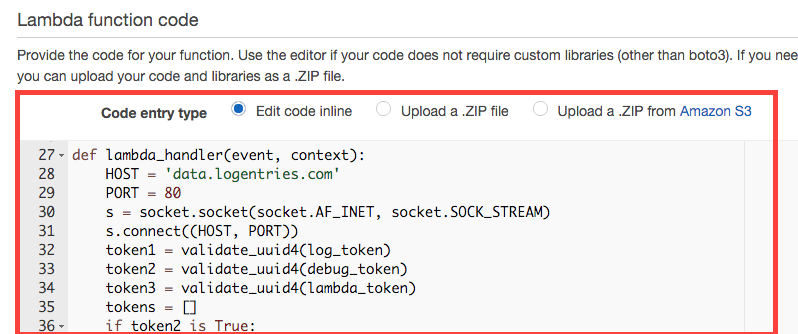
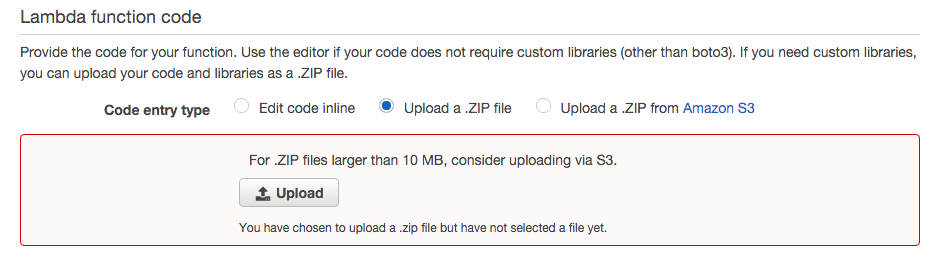
SSL Support
Add SSL support, Logentries certs, update readme

Changed region(s): [[0.0, 0.124, 1.0, 1.0], [0.0, 0.031, 0.2707, 0.093]]

diff --git a/le_lambda.py b/le_lambda.py
@@ -1,8 +1,10 @@
 import boto3
 import socket
+import ssl
 import datetime
 import re
 import csv
+
 print('Loading function')
 
 s3 = boto3.client('s3')
@@ -25,18 +27,19 @@ username = "YOUR_USERNAME"
 
 def lambda_handler(event, context):
     host = 'data.logentries.com'
-    port = 80
-    s = socket.socket(socket.AF_INET, socket.SOCK_STREAM)
+    port = 20000
+    s_ = socket.socket(socket.AF_INET, socket.SOCK_STREAM)
+    s = ssl.wrap_socket(s_, ca_certs='le_certs.pem', cert_reqs=ssl.CERT_REQUIRED)
     s.connect((host, port))
     tokens = []
-    if validate_uuid4(debug_token) is True:
+    if validate_uuid(debug_token) is True:
         tokens.append(debug_token)
-    if validate_uuid4(lambda_token) is True:
+    if validate_uuid(lambda_token) is True:
         tokens.append(lambda_token)
     else:
         pass
 
-    if validate_uuid4(log_token) is False:
+    if validate_uuid(log_token) is False:
         for token in tokens:
             s.sendall('%s %s\n' % (token, "{}: log token not present for username={}"
                                    .format(str(datetime.datetime.utcnow()), username)))
@@ -50,11 +53,11 @@ def lambda_handler(event, context):
             body = response['Body']
             data = body.read()
             for token in tokens:
-                s.sendall('%s %s\n' % (token, "username={} downloaded file={} from bucket={}."
+                s.sendall('%s %s\n' % (token, "username='{}' downloaded file='{}' from bucket='{}'."
                                        .format(username, key, bucket)))
             lines = data.split("\n")
             for token in tokens:
-                s.sendall('%s %s\n' % (token, "Beginning to send lines={} start_time={}."
+                s.sendall('%s %s\n' % (token, "Beginning to send lines='{}' start_time='{}'."
                                        .format(str(len(lines)), str(datetime.datetime.utcnow()))))
             if validate_elb_log(str(key)) is True:
                 # timestamp elb client:port backend:port request_processing_time backend_processing_time
@@ -80,21 +83,21 @@ def lambda_handler(event, context):
                 for line in lines:
                     s.sendall('%s %s\n' % (log_token, line))
             for token in tokens:
-                s.sendall('%s %s\n' % (token, "username={} finished sending log data end_time={}"
+                s.sendall('%s %s\n' % (token, "username='{}' finished sending log data end_time='{}'"
                                        .format(username, str(datetime.datetime.utcnow()))))
         except Exception as e:
             for token in tokens:
                 print e
-                s.sendall('%s %s\n' % (token, 'Error getting username={} file={} from bucket={}. Make sure '
-                                              'they exist and your bucket is in the same region as this function.'
+                s.sendall('%s %s\n' % (token, "Error getting username='{}' file='{}' from bucket='{}'. Make sure "
+                                              "they exist and your bucket is in the same region as this function."
                                        .format(username, key, bucket)))
         finally:
             s.close()
 
 
-def validate_uuid4(uuid):
+def validate_uuid(uuid_string):
     regex = re.compile('^[0-9a-f]{8}-[0-9a-f]{4}-[1-5][0-9a-f]{3}-[89ab][0-9a-f]{3}-[0-9a-f]{12}$', re.I)
-    match = regex.match(uuid)
+    match = regex.match(uuid_string)
     return bool(match)
 
 

diff --git a/README.md b/README.md
@@ -15,50 +15,50 @@ Follow the instructions below to send logs stored on AWS S3 to Logentries.
 ## Deploy the script on AWS Lambda
 1. Create a new Lambda function
 
-   ![Create Function](https://raw.githubusercontent.com/omgapuppy/le_lambda/master/doc/step1.png)
+   ![Create Function](https://raw.githubusercontent.com/logentries/le_lambda/master/doc/step1.png)
 
 2. Choose the Python blueprint for S3 objects
 
-   ![Choose Blueprint](https://raw.githubusercontent.com/omgapuppy/le_lambda/master/doc/step2.png)
+   ![Choose Blueprint](https://raw.githubusercontent.com/logentries/le_lambda/master/doc/step2.png)
 
 3. Configure event sources:
    * Select S3 as event source type
    * Choose the bucket log files are being stored in
    * Set event type "Object Created (All)"
 
-   ![Create Function](https://raw.githubusercontent.com/omgapuppy/le_lambda/master/doc/step3.png)
+   ![Create Function](https://raw.githubusercontent.com/logentries/le_lambda/master/doc/step3.png)
 
 4. Configure function:
    * Give your function a name
    * Set runtime to Python 2.7
 
-   ![Create Function](https://raw.githubusercontent.com/omgapuppy/le_lambda/master/doc/step4.png)
+   ![Create Function](https://raw.githubusercontent.com/logentries/le_lambda/master/doc/step4.png)
 
 5. Edit code:
-   * Select "Edit code inline"
-   * Copy the contents of ```le_lambda.py```
-   * Replace **all** code in the editor window
+   * Edit the contents of ```le_lambda.py```
    * Replace values of ```log_token``` and ```debug_token``` with tokens obtained earlier.
+   * Create a .ZIP file, containing the updated ```le_lambda.py``` and ```le_certs.pem```
+   * Choose "Upload a .ZIP file" in AWS Lambda and upload the archive created in previous step
 
-   ![Create Function](https://raw.githubusercontent.com/omgapuppy/le_lambda/master/doc/step5.png)
+   ![Create Function](https://raw.githubusercontent.com/logentries/le_lambda/master/doc/step5.png)
 
 6. Lambda function handler and role
-   * Leave the "Handler" value to default
+   * Change the "Handler" value to ```le_lambda.lambda_handler```
    * Create a new S3 execution role (your IAM user must have sufficient permissions to create & assign new roles)
 
-   ![Create Function](https://raw.githubusercontent.com/omgapuppy/le_lambda/master/doc/step6.png)
+   ![Create Function](https://raw.githubusercontent.com/logentries/le_lambda/master/doc/step6.png)
 
 7. Allocate resources:
    * Set memory to 1536 MB (script only runs for seconds at a time)
    * Set timeout to a high value, just below of log file creation frequency
      *  Below example is configured for ELB logs written every 5 minutes
 
-  ![Create Function](https://raw.githubusercontent.com/omgapuppy/le_lambda/master/doc/step7.png)
+  ![Create Function](https://raw.githubusercontent.com/logentries/le_lambda/master/doc/step7.png)
 
 8. Enable function:
    * Select "Enable now"
    * Click "Create function"
 
-   ![Create Function](https://raw.githubusercontent.com/omgapuppy/le_lambda/master/doc/step8.png)
+   ![Create Function](https://raw.githubusercontent.com/logentries/le_lambda/master/doc/step8.png)
 
-   ![Create Function](https://raw.githubusercontent.com/omgapuppy/le_lambda/master/doc/step9.png)
+   ![Create Function](https://raw.githubusercontent.com/logentries/le_lambda/master/doc/step9.png)
